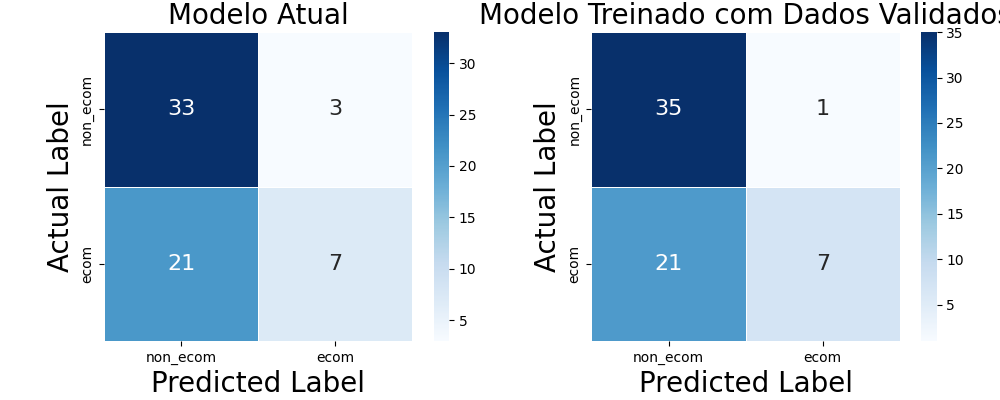
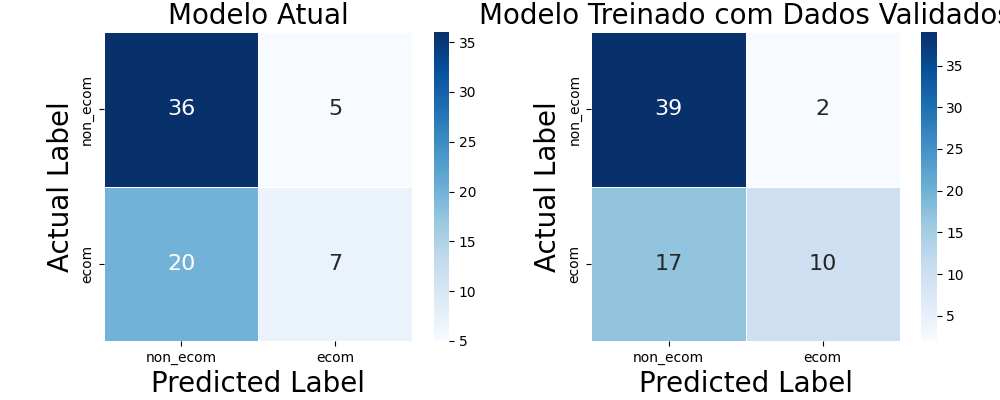
updating main files and README with new analysis

diff --git a/experiments/16-04-2025.md b/experiments/16-04-2025.md
@@ -38,9 +38,11 @@ Como os conjuntos de testes e validação usados para treinar o modelo que está
 
 - `Conjunto de validação criado manualmente`: Alguns domínios que não estavam presentes em nenhum conjunto de treinamento foram extraídos da tabela do Postgres e selecionados aleatoriamente para serem rotulados, visando montar uma base maior de validação dos modelos.
 
-- `Dados análise de probabilidade`: Foram utilizados os dados da [planilha de análise de probabilidade](https://docs.google.com/spreadsheets/d/1mp1DEnGa2RUWSo_qUb5qCq46OkWY7Q7MrFe3ru2Xb-U/edit?usp=sharing) para validação dos modelos.
+- `Dados análise de probabilidade da Pagar.me`: Foram utilizados os dados da [planilha de análise de probabilidade](https://docs.google.com/spreadsheets/d/16ubQaRJ9deGMtZ7OnTqgDigokKJCr3gm/edit?usp=sharing&ouid=106046294543553797804&rtpof=true&sd=true) para validação dos modelos. É importante ressaltar que não foram utilizados todos os websites, pois estava inválido ou não foi possível obter o seu HMTL usando o spiderwebv4. Esses dados foram avaliados e rotulados pela equipe de CS.
 
-- `Dados da Pagar.me`: Para testar os modelos, foram utilizados os dados da [planilha de domínio](https://docs.google.com/spreadsheets/d/1ZGQe8Ia_6pZ8IMMKWJbjB5EEfbWcq_vAixxApEjjDn8/edit?usp=sharing) que foram rotulados como não sendo e-commerce. Não foram utilizados dados rotulados de e-commerce, pois não foram encontrados rótulos que especificassem se o domínio era e-commerce.
+- `Dados análise de probabilidade da Pagar.me (Lista 8)`: Foram utilizados os dados da [planilha de análise de probabilidade](https://docs.google.com/spreadsheets/d/1g5nSRi236JaLsL-M74TBolhoSTvzn0vHd3qB3Caie7c/edit?usp=sharing) para validação dos modelos. É importante ressaltar que não foram utilizados todos os websites, pois estava inválido, offline ou não foi possível obter o seu HMTL usando o spiderwebv4. Esses dados foram avaliados e rotulados pela equipe de CS.
+
+- `Dados da Pagar.me`: Para testar os modelos, foram utilizados os dados da [planilha de domínio](https://docs.google.com/spreadsheets/d/1ZGQe8Ia_6pZ8IMMKWJbjB5EEfbWcq_vAixxApEjjDn8/edit?usp=sharing) que foram rotulados como não sendo e-commerce. Esses dados foram avaliados e rotulados pela equipe de CS. É importante mencionar que não foram utilizados dados rotulados de e-commerce, pois não foram encontrados rótulos que especificassem se o domínio era e-commerce. 
 
 Algumas informações da composição cada base:
 
@@ -49,10 +51,15 @@ Algumas informações da composição cada base:
        - Quantidade de dados da classe `e-commerce`: 141
        - Quantidade de dados da classe `não é e-commerce`: 199
 
-- `Dados análise de probabilidade`:
-       - Tamanho: 64
-       - Quantidade de dados da classe `e-commerce`: 28
-       - Quantidade de dados da classe `não é e-commerce`: 36
+- `Dados análise de probabilidade da Pagar.me`:
+       - Tamanho: 68
+       - Quantidade de dados da classe `e-commerce`: 27
+       - Quantidade de dados da classe `não é e-commerce`: 41
+
+- `Dados análise de probabilidade da Pagar.me (Lista 8)`:
+       - Tamanho: 122
+       - Quantidade de dados da classe `e-commerce`: 50
+       - Quantidade de dados da classe `não é e-commerce`: 72
 
 - `Dados da Pagar.me`:
        - Tamanho: 14
@@ -113,45 +120,91 @@ Algumas informações da composição cada base:
 
 | Threshold / Modelo 	| Treinado com Dados Validados + Dados Extras 	| Treinado com Dados Validados 	| Treinado com Dados Ruidosos 	| Modelo Atual 	|
 |:------------------:	|:-------------------------------------------:	|------------------------------	|-----------------------------	|--------------	|
-|         0.4        	| **0.6875**                                      	| 0.6719                       	| 0.6406                      	| **0.6875**       	|
-|         0.5        	| **0.6719**                                      	| **0.6719**                       	| 0.6406                      	| 0.6406       	|
-|         0.6        	| **0.6562**                                      	| **0.6562**                       	| 0.6406                      	| 0.625        	|
-|         0.7        	| **0.6719**                                      	| 0.6562                       	| 0.6406                      	| 0.6094       	|
-|         0.8        	| **0.6719**                                      	| 0.6562                       	| 0.625                       	| 0.6094       	|
-|         0.9        	| 0.625                                       	| **0.6406**                       	| 0.6094                      	| 0.625        	|
+|         0.4        	| **0.7353**                                      	| 0.6765                       	| 0.6912                      	| 0.6324       	|
+|         0.5        	| **0.7206**                                      	| 0.6912                       	| **0.7206**                      	| 0.6471       	|
+|         0.6        	| 0.7059                                      	| **0.7206**                       	| 0.7059                      	| 0.6324        	|
+|         0.7        	| **0.7206**                                      	| 0.7059                       	| 0.6912                      	| 0.6912       	|
+|         0.8        	| **0.7059**                                      	| **0.7059**                       	| 0.6618                       	| 0.6912       	|
+|         0.9        	| 0.6618                                       	| **0.7059**                       	| 0.6471                      	| 0.6765        	|
 
 ### F1-Score
 
 | Threshold / Modelo 	| Treinado com Dados Validados + Dados Extras 	| Treinado com Dados Validados 	| Treinado com Dados Ruidosos 	| Modelo Atual 	|
 |:------------------:	|:-------------------------------------------:	|------------------------------	|-----------------------------	|--------------	|
-|         0.4        	| 0.4737                                      	| **0.5116**                       	| 0.3429                      	| 0.6296       	|
-|         0.5        	| 0.4324                                      	| **0.4878**                       	| 0.303                       	| 0.439        	|
-|         0.6        	| **0.3889**                                      	| **0.3889**                       	| 0.303                       	| 0.3684       	|
-|         0.7        	| **0.4**                                         	| 0.3889                       	| 0.303                       	| 0.2857       	|
-|         0.8        	| **0.4**                                         	| 0.3889                       	| 0.25                        	| 0.2857       	|
-|         0.9        	| 0.25                                        	| **0.303**                        	| 0.1935                      	| 0.2941       	|
+|         0.4        	| 0.55                                      	| 0.5217                       	| 0.4324                      	| **0.5614**       	|
+|         0.5        	| **0.5128**                                      	| 0.5116                       	| 0.4571                       	| 0.4286        	|
+|         0.6        	| 0.4737                                      	| **0.5128**                       	| 0.4118                       	| 0.359       	|
+|         0.7        	| **0.4865**                                         	| 0.4737                       	| 0.3636                       	| 0.4       	|
+|         0.8        	| 0.4444                                         	| **0.4737**                       	| 0.2581                        	| 0.4       	|
+|         0.9        	| 0.2581                                        	| **0.4118**                        	| 0.2                      	| 0.3529       	|
 
 ### Falso Positivo
 
 | Threshold / Modelo 	| Treinado com Dados Validados + Dados Extras 	| Treinado com Dados Validados 	| Treinado com Dados Ruidosos 	| Modelo Atual 	|
 |:------------------:	|:-------------------------------------------:	|------------------------------	|-----------------------------	|--------------	|
-|         0.4        	| **1**                                  	| 4                   	| **1**                  	| 9   	|
-|         0.5        	| 1                                  	| 3                   	| **0**                  	| 4   	|
-|         0.6        	| 1                                  	| 1                   	| **0**                  	| 3   	|
-|         0.7        	| **0**                                  	| 1                   	| **0**                  	| 2   	|
-|         0.8        	| **0**                                  	| 1                   	| **0**                  	| 2   	|
+|         0.4        	| **2**                                  	| 7                   	| **2**                  	| 14   	|
+|         0.5        	| 2                                  	| 5                   	| **0**                  	| 6   	|
+|         0.6        	| 2                                  	| 2                   	| **0**                  	| 6   	|
+|         0.7        	| 2                                  	| 2                   	| **0**                  	| 1   	|
+|         0.8        	| 1                                  	| 2                   	| **0**                  	| 1   	|
 |         0.9        	| **0**                                  	| **0**                   	| **0**                  	| 1   	|
 
 ### Falso Negativo
 
 | Threshold / Modelo 	| Treinado com Dados Validados + Dados Extras 	| Treinado com Dados Validados 	| Treinado com Dados Ruidosos 	| Modelo Atual 	|
 |:------------------:	|:-------------------------------------------:	|------------------------------	|-----------------------------	|--------------	|
-|         0.4        	| 19                                  	| 17                   	| 22                  	| **11**   	|
-|         0.5        	| 20                                  	| **18**                   	| 23                  	| 19   	|
-|         0.6        	| **21**                                  	| **21**                   	| 23                  	| **21**   	|
-|         0.7        	| **21**                                  	| **21**                   	| 23                  	| 23   	|
-|         0.8        	| **21**                                  	| **21**                   	| 24                  	| 23   	|
-|         0.9        	| 24                                  	| **23**                   	| 25                  	| **23**   	|
+|         0.4        	| 16                                  	| 15                   	| 19                  	| **11**   	|
+|         0.5        	| 17                                  	| **16**                   	| 19                  	| 18   	|
+|         0.6        	| 18                                  	| **17**                   	| 20                  	| 20   	|
+|         0.7        	| **18**                                  	| **18**                   	| 21                  	| 20   	|
+|         0.8        	| 19                                  	| **18**                   	| 23                  	| 20   	|
+|         0.9        	| 23                                  	| **20**                   	| 24                  	| 21   	|
+
+## Dados da Análise de Probabilidade (Lista 8)
+
+### Acurácia
+
+| Threshold / Modelo 	| Treinado com Dados Validados + Dados Extras 	| Treinado com Dados Validados 	| Treinado com Dados Ruidosos 	| Modelo Atual 	|
+|:------------------:	|:-------------------------------------------:	|------------------------------	|-----------------------------	|--------------	|
+|         0.4        	| **0.7295**                                     	| 0.6557                      	| 0.6148                     	| 0.4754       	|
+|         0.5        	| **0.7377**                                     	| 0.7049                      	| 0.6148                     	| 0.541       	|
+|         0.6        	| **0.7377**                                     	| 0.6803                       	| 0.6148                      	| 0.5574        	|
+|         0.7        	| **0.6639**                                      	| 0.6475                       	| 0.623                      	| 0.6066       	|
+|         0.8        	| 0.6148                                      	| 0.6148                       	| **0.6311**                       	| **0.6311**       	|
+|         0.9        	| 0.623                                       	| 0.6148                       	| **0.6311**                      	| 0.623        	|
+
+### F1-Score
+
+| Threshold / Modelo 	| Treinado com Dados Validados + Dados Extras 	| Treinado com Dados Validados 	| Treinado com Dados Ruidosos 	| Modelo Atual 	|
+|:------------------:	|:-------------------------------------------:	|------------------------------	|-----------------------------	|--------------	|
+|         0.4        	| **0.6207**                                      	| 0.5532                       	| 0.2295                      	| 0.5789       	|
+|         0.5        	| **0.5897**                                      	| 0.5714                       	| 0.2034                       	| 0.5758        	|
+|         0.6        	| **0.5789**                                      	| 0.4658                       	| 0.2034                       	| 0.3721       	|
+|         0.7        	| **0.3881**                                         	| 0.3582                       	| 0.2069                       	| 0.3143       	|
+|         0.8        	| 0.2295                                         	| 0.2295                       	| 0.2105                        	| **0.2623**      	|
+|         0.9        	| 0.1786                                        	| 0.2034                        	| 0.2105                      	| **0.2333**       	|
+
+### Falso Positivo
+
+| Threshold / Modelo 	| Treinado com Dados Validados + Dados Extras 	| Treinado com Dados Validados 	| Treinado com Dados Ruidosos 	| Modelo Atual 	|
+|:------------------:	|:-------------------------------------------:	|------------------------------	|-----------------------------	|--------------	|
+|         0.4        	| 10                                  	| 18                   	| **4**                  	| 58   	|
+|         0.5        	| 5                                  	| 10                   	| **3**                  	| 44   	|
+|         0.6        	| 4                                  	| 6                   	| **3**                  	| 20   	|
+|         0.7        	| 4                                  	| 5                   	| **2**                  	| 9   	|
+|         0.8        	| 4                                  	| 4                   	| **1**                  	| 3   	|
+|         0.9        	| **1**                                  	| 3                   	| **1**                  	| 3   	|
+
+### Falso Negativo
+
+| Threshold / Modelo 	| Treinado com Dados Validados + Dados Extras 	| Treinado com Dados Validados 	| Treinado com Dados Ruidosos 	| Modelo Atual 	|
+|:------------------:	|:-------------------------------------------:	|------------------------------	|-----------------------------	|--------------	|
+|         0.4        	| 23                                  	| 24                   	| 43                  	| **6**   	|
+|         0.5        	| 27                                  	| 26                   	| 44                  	| **12**   	|
+|         0.6        	| **28**                                  	| 33                   	| 44                  	| 34   	|
+|         0.7        	| **37**                                  	| 38                   	| 44                  	| 39   	|
+|         0.8        	| 43                                  	| 43                   	| 44                  	| **42**   	|
+|         0.9        	| 45                                  	| 44                   	| 44                  	| **43**   	|
 
 ## Dados da Pagar.me (Somente Acurácia)
 
@@ -218,11 +271,21 @@ Nas seções anteriores, é possível observar que todos os modelos candidatos p
 
 ## Comparação das Matrizes de Confusão da Base de Dados do Conjunto de Validação do Melhor Modelo e do Modelo Atual
 
+Nas matrizes de confusão abaixo, é possível observar que o mmelhor modelo possui uma performance melhor que o modelo atual, tanto considerando métricas específicas, como a acurácia e o F1-Score (ambos foram citados nas tabelas da seção anterior), quanto na quantidade de falso positivo, verdadeiro negativo (dados classificados corretamente como não sendo e-commerce) e verdadeiro positivo (dados classificados corretamente como sendo e-commerce). A única métrica que teve um resultado pior comparado ao modelo atual foi a quantidade de falso negativo.
+
 ![Comparação das Matrizes de Confusão da Base de Dados do Conjunto de Validação do Melhor Modelo e do Modelo Atual](../images/16-04-2025/confusion_matrix_dados_validacao.png)
 
 ## Comparação das Matrizes de Confusão da Base de Dados de Análise de Probabilidade do Melhor Modelo e do Modelo Atual
 
+Nas matrizes de confusão abaixo, é possível observar que o mmelhor modelo possui uma performance melhor que o modelo atual, tanto considerando métricas específicas, como a acurácia e o F1-Score (ambos foram citados nas tabelas da seção anterior), quanto na quantidade de falso positivo, falso negativo, verdadeiro negativo (dados classificados corretamente como não sendo e-commerce) e verdadeiro positivo (dados classificados corretamente como sendo e-commerce).
+
 ![Comparação das Matrizes de Confusão da Base de Dados de Análise de Probabilidade do Melhor Modelo e do Modelo Atual](../images/16-04-2025/confusion_matrix_dados_analise_probabilidade.png)
+
+## Comparação das Matrizes de Confusão da Base de Dados de Análise de Probabilidade (Lista 8) do Melhor Modelo e do Modelo Atual
+
+Nas matrizes de confusão abaixo, é possível observar que o mmelhor modelo possui uma performance melhor que o modelo atual, tanto considerando métricas específicas, como a acurácia e o F1-Score (ambos foram citados nas tabelas da seção anterior), quanto na quantidade de falso positivo, falso negativo, verdadeiro negativo (dados classificados corretamente como não sendo e-commerce) e verdadeiro positivo (dados classificados corretamente como sendo e-commerce).
+
+![Comparação das Matrizes de Confusão da Base de Dados de Análise de Probabilidade (Lista 8) do Melhor Modelo e do Modelo Atual](../images/16-04-2025/confusion_matrix_dados_analise_probabilidade_lista8.png)
 
 ## Comparação das Probabilidades do Melhor Modelo e do Modelo Atual
 
